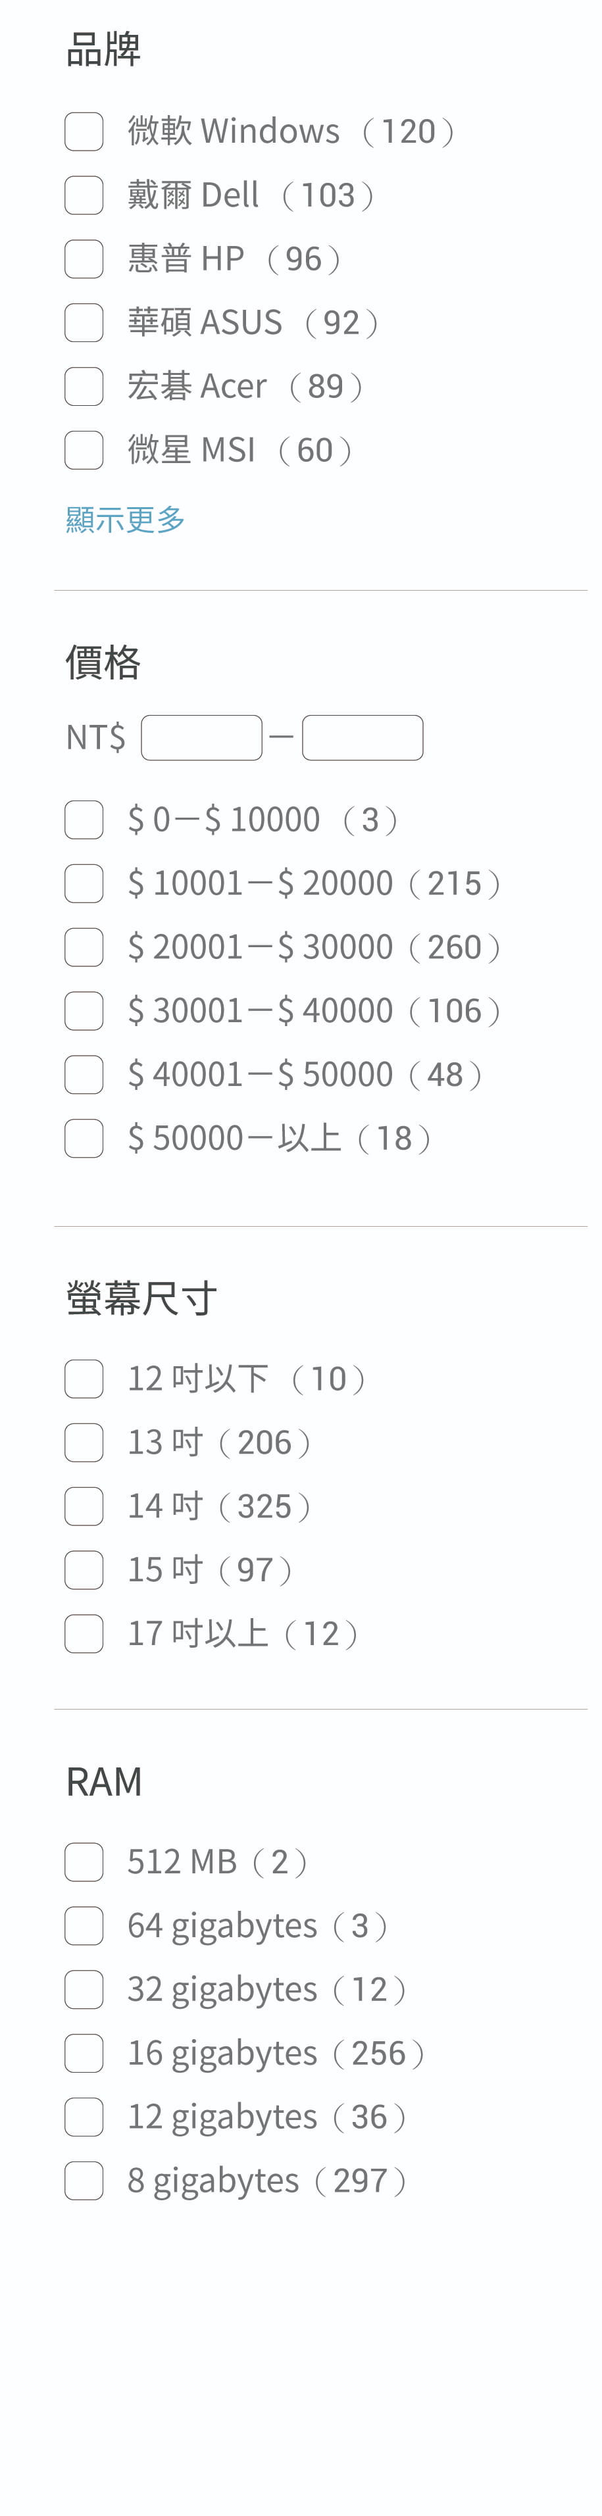
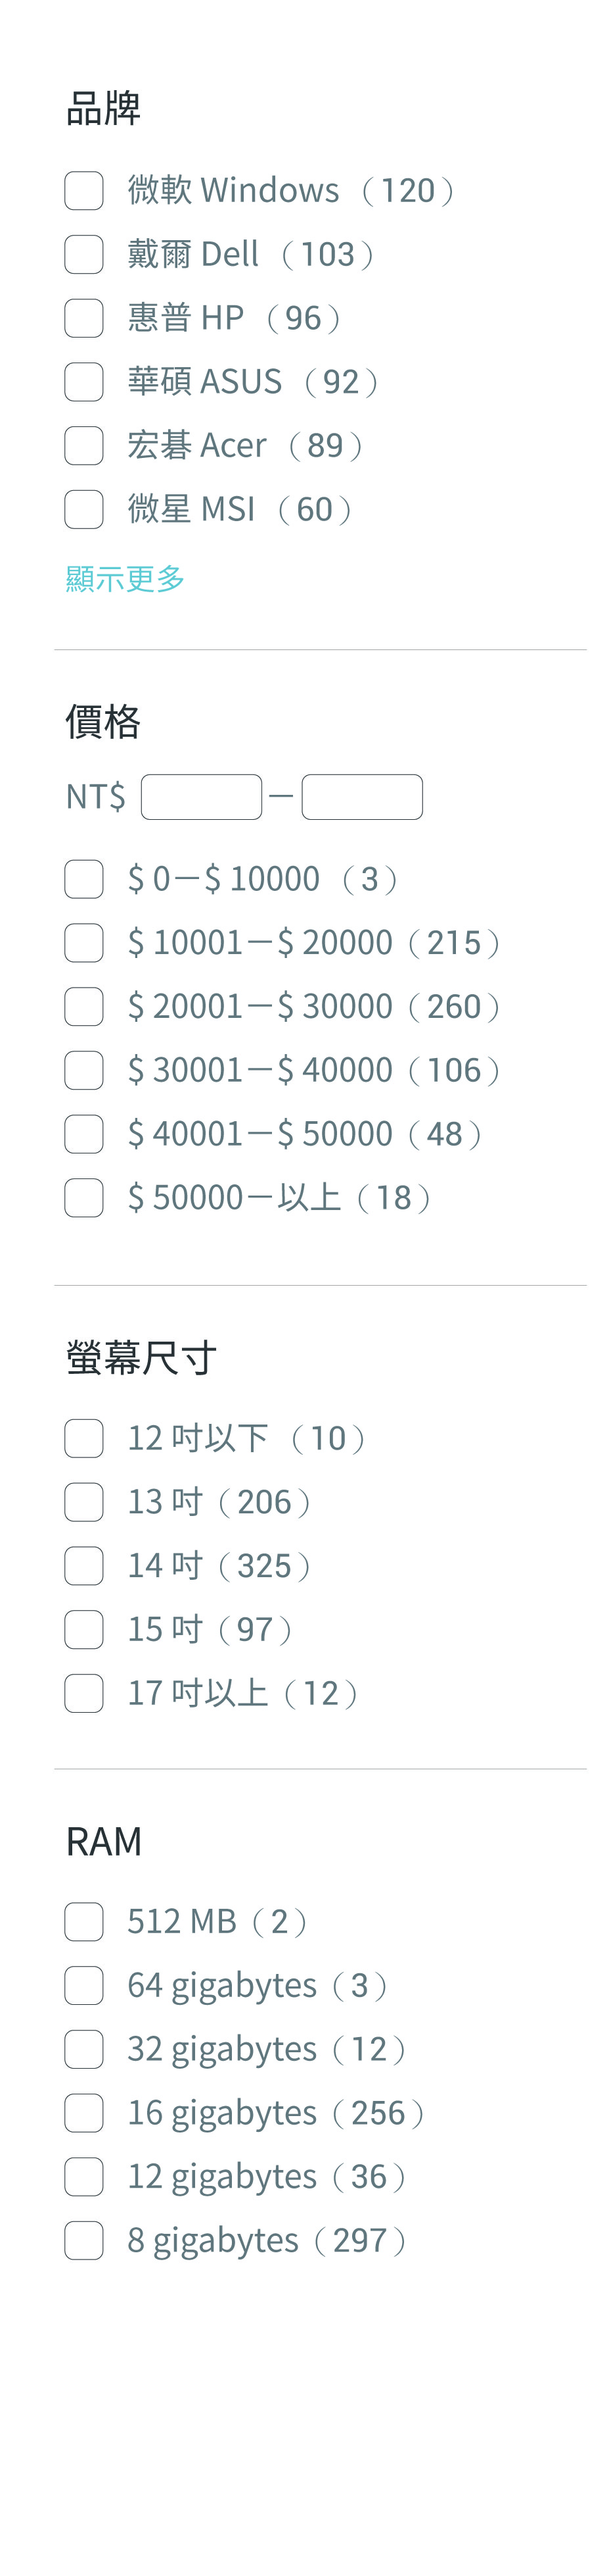
right slice

diff --git a/index.sass b/index.sass
@@ -5,7 +5,7 @@ $green: rgb(102, 196, 97)
   position: relative
   box-sizing: border-box
   font-size: 0px
-  border: 1px solid rgb(138, 66, 221)
+  // border: 1px solid rgb(138, 66, 221)
 
 html, body
   margin: 0px
@@ -13,7 +13,8 @@ html, body
   overflow-y: hidden
 
 html
-  background-color: rgb(240,244,247)
+  // background-color: rgb(240,244,247)
+  background-color: rgb(251, 251, 251)
 
 body
   width: 1024px
@@ -33,17 +34,17 @@ body
 
 .left
   width: 222px
-  height: calc(100vh - 276.45px)
+  height: calc(100vh - 260.85px)
   overflow-y: scroll
 
 .right
   width: 802px
-  height: calc(100vh - 276.45px)
+  height: calc(100vh - 260.85px)
   overflow-y: scroll
 
 .center
   width: 100%
-  height: calc(100vh - 276.45px)
+  height: calc(100vh - 260.85px)
   overflow-y: scroll
 
 // === Toogle Class ===
@@ -66,8 +67,8 @@ body
   cursor: pointer
 
   position: absolute
-  top: 100px
-  left: 20px
+  top: 118px
+  left: 19px
   width: 20px
   height: 20px
 
@@ -76,8 +77,8 @@ body
   cursor: pointer
 
   position: absolute
-  top: 242px
-  left: 47px
+  top: 256px
+  left: 45px
   width: 100px
   height: 20px
 
@@ -86,40 +87,17 @@ body
   cursor: pointer
 
   position: absolute
-  top: 196px
+  top: 250px
   left: 18px
   width: 340px
   height: 180px
 
-
-
-
-
-
-
-
-
-
-
-
-
-
-
-
-
-
-
-
-
-
-
-
+// === 購物車按鈕 ===
 
 #cart
   position: absolute
   left: 576px
-  top: 387px
-
+  top: 400px
 
 .button
   border-radius: 50px

diff --git a/index.css b/index.css
@@ -2,7 +2,6 @@
 		position: relative;
 		box-sizing: border-box;
 		font-size: 0px;
-		border: 1px solid #8a42dd;
 }
 
 html, body {
@@ -12,7 +11,7 @@ html, body {
 }
 
 html {
-		background-color: #f0f4f7;
+		background-color: #fbfbfb;
 }
 
 body {
@@ -37,19 +36,19 @@ body {
 
 .left {
 		width: 222px;
-		height: calc(100vh - 276.45px);
+		height: calc(100vh - 260.85px);
 		overflow-y: scroll;
 }
 
 .right {
 		width: 802px;
-		height: calc(100vh - 276.45px);
+		height: calc(100vh - 260.85px);
 		overflow-y: scroll;
 }
 
 .center {
 		width: 100%;
-		height: calc(100vh - 276.45px);
+		height: calc(100vh - 260.85px);
 		overflow-y: scroll;
 }
 
@@ -73,8 +72,8 @@ body {
 		z-index: 10;
 		cursor: pointer;
 		position: absolute;
-		top: 100px;
-		left: 20px;
+		top: 118px;
+		left: 19px;
 		width: 20px;
 		height: 20px;
 }
@@ -83,8 +82,8 @@ body {
 		z-index: 10;
 		cursor: pointer;
 		position: absolute;
-		top: 242px;
-		left: 47px;
+		top: 256px;
+		left: 45px;
 		width: 100px;
 		height: 20px;
 }
@@ -93,7 +92,7 @@ body {
 		z-index: 10;
 		cursor: pointer;
 		position: absolute;
-		top: 196px;
+		top: 250px;
 		left: 18px;
 		width: 340px;
 		height: 180px;
@@ -102,7 +101,7 @@ body {
 #cart {
 		position: absolute;
 		left: 576px;
-		top: 387px;
+		top: 400px;
 }
 
 .button {

diff --git a/index.html b/index.html
@@ -4,7 +4,8 @@
   <meta charset="UTF-8">
   <meta name="viewport" content="width=device-width, initial-scale=1.0">
   <meta http-equiv="X-UA-Compatible" content="ie=edge">
-  <title>Document</title>
+  <title>PCHome HCI redesign</title>
+  <link rel="icon" type="png" href="icon.png">
   <link rel="stylesheet" href="index.css">
   <script src="https://cdnjs.cloudflare.com/ajax/libs/jquery/3.4.1/jquery.js"></script>
   <script src="index.js"></script>
@@ -24,7 +25,7 @@
 
       <div class="page">
         <div class="center none">
-          <img src="4-1.jpg" alt="">
+          <img src="4-body.jpg" alt="">
 
           <div id="cart" class="none">
               <div class="button">

diff --git a/index.js b/index.js
@@ -1,11 +1,11 @@
 $(document).ready(function() {
 	// console.log("hoho");
-	$(".center").mousemove(function() {
-		var pageX = event.pageX - $(this).offset().left;
-		var pageY = event.pageY - $(this).offset().top;
+	// $(".center").mousemove(function() {
+	// 	var pageX = event.pageX - $(this).offset().left;
+	// 	var pageY = event.pageY - $(this).offset().top;
 
-		console.log("X: " + pageX + "  Y: " + pageY);
-	});
+	// 	console.log("X: " + pageX + "  Y: " + pageY);
+	// });
 
 	$(".asus").click(function() {
 		$(".1-left").toggleClass('none');
